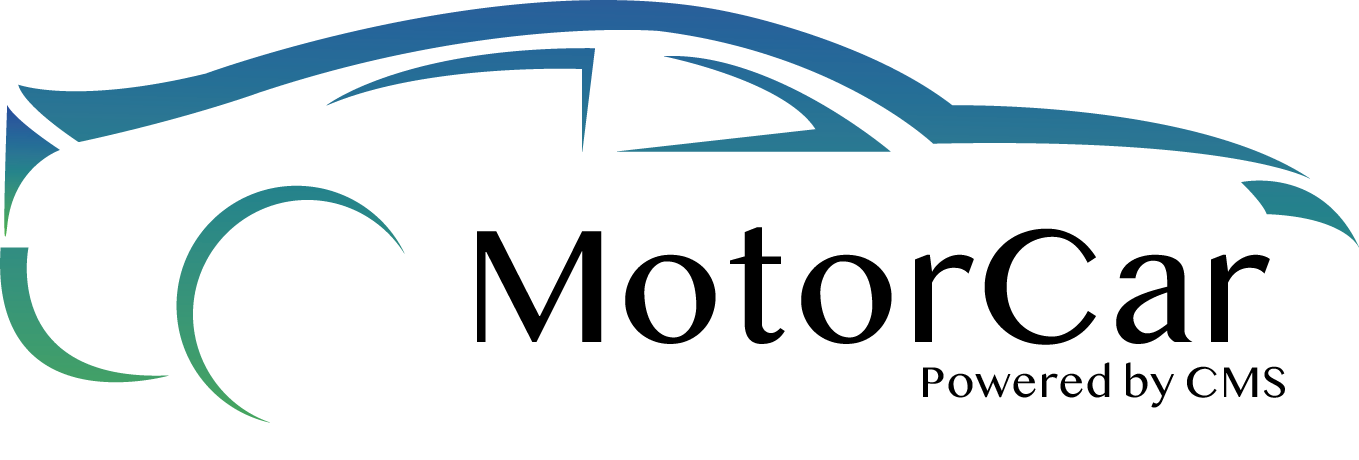
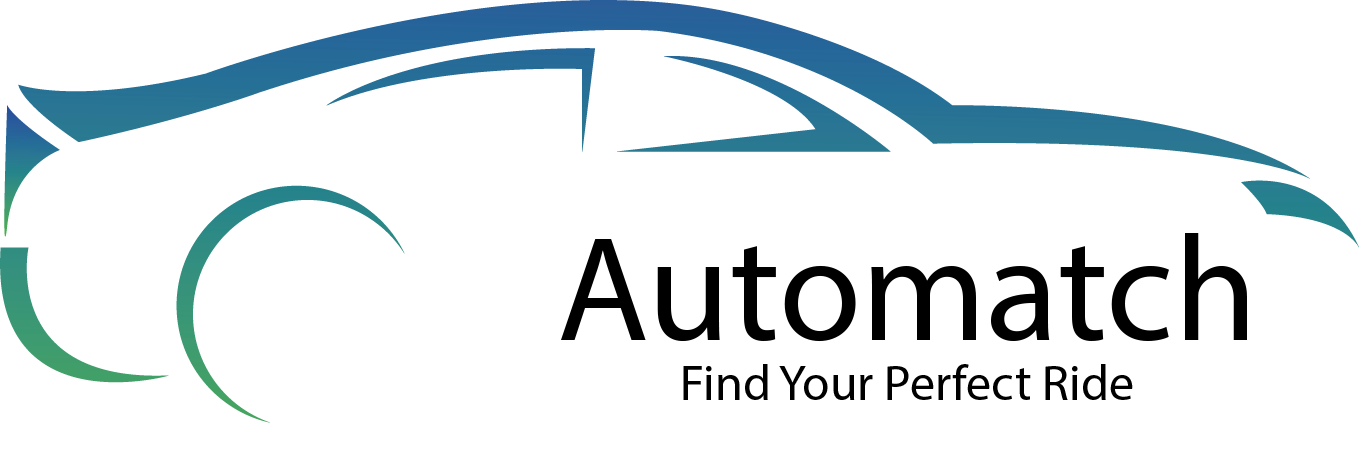
wording

Changed region(s): [[0.34, 0.487, 0.9581, 0.7609], [0.4945, 0.7913, 0.9581, 0.8826]]

diff --git a/stockManagement/src/app/pages/auth/login/login.component.html b/stockManagement/src/app/pages/auth/login/login.component.html
@@ -58,9 +58,9 @@
       <div class="col-md-12">
         <div class="mt-1 d-flex justify-content-between">
           <p class="text-white me-2">
-            {{ today | date: "dd/MM/yyyy" }} {{ time | date: "HH:mm:ss" }}
+            {{ today | date : "dd/MM/yyyy" }} {{ time | date : "HH:mm:ss" }}
           </p>
-          <p class="text-white">MOTORCAR <b>Powered by CMS</b></p>
+          <p class="text-white">MOTORCAR <b>Powered by WVV</b></p>
         </div>
       </div>
     </div>

diff --git a/stockManagement/src/app/components/footer/footer.component.html b/stockManagement/src/app/components/footer/footer.component.html
@@ -4,9 +4,9 @@
       <div class="col-md-12">
         <div class="mt-1 d-flex justify-content-between">
           <p class="text-white me-2">
-            {{ today | date: "dd/MM/yyyy" }} {{ time | date: "HH:mm:ss" }}
+            {{ today | date : "dd/MM/yyyy" }} {{ time | date : "HH:mm:ss" }}
           </p>
-          <p class="text-white">MOTORCAR <b>Powered by CMS</b></p>
+          <p class="text-white">Automatch <b>Powered by Wvv</b></p>
         </div>
       </div>
     </div>
